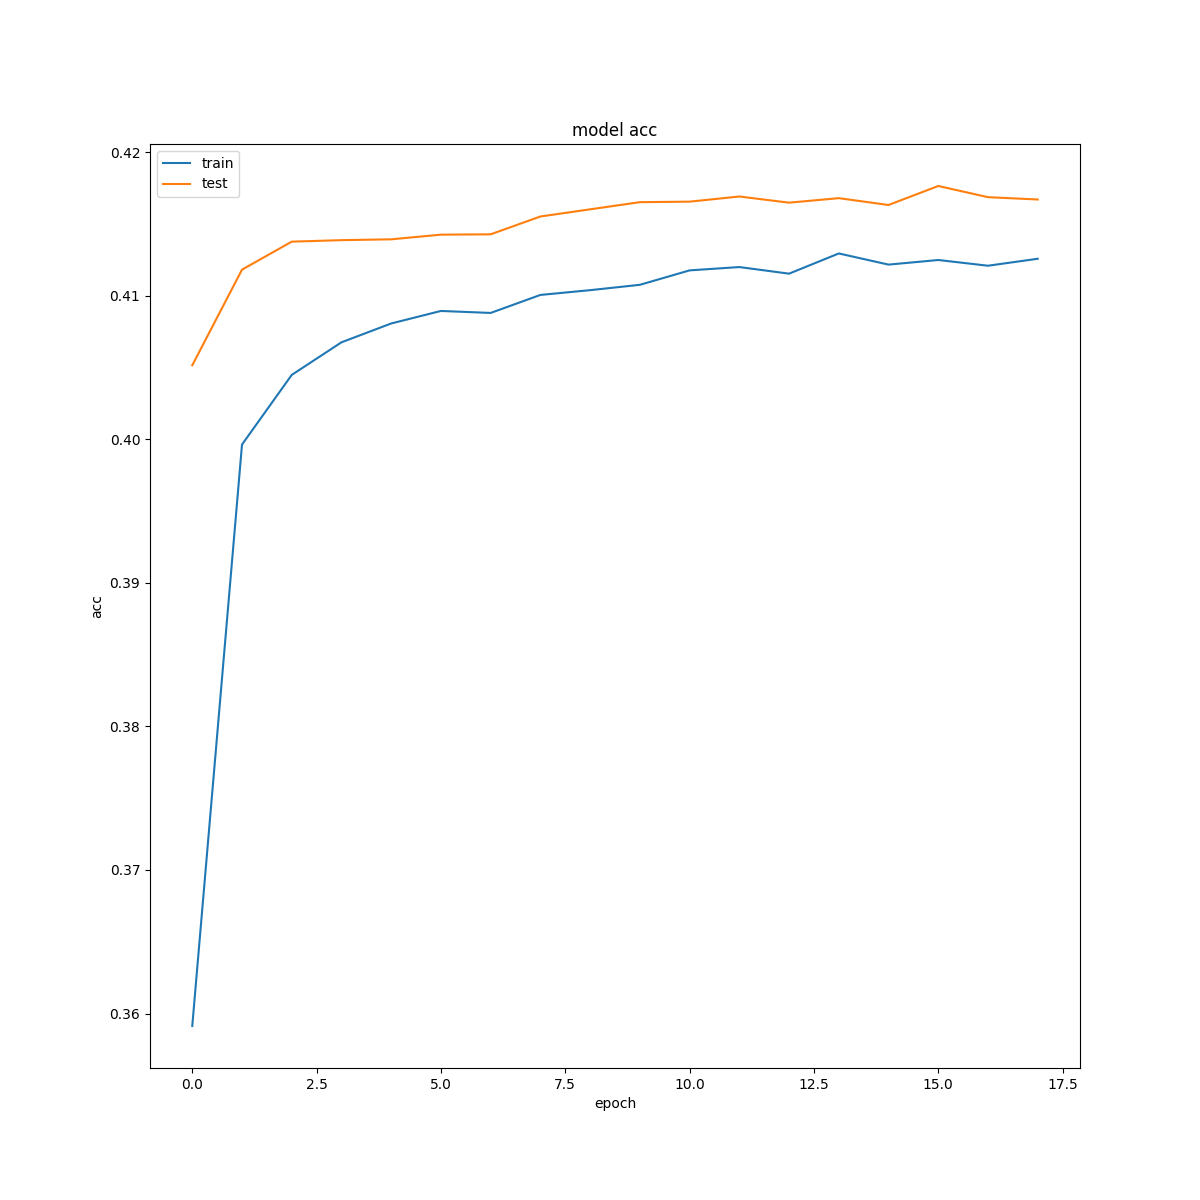
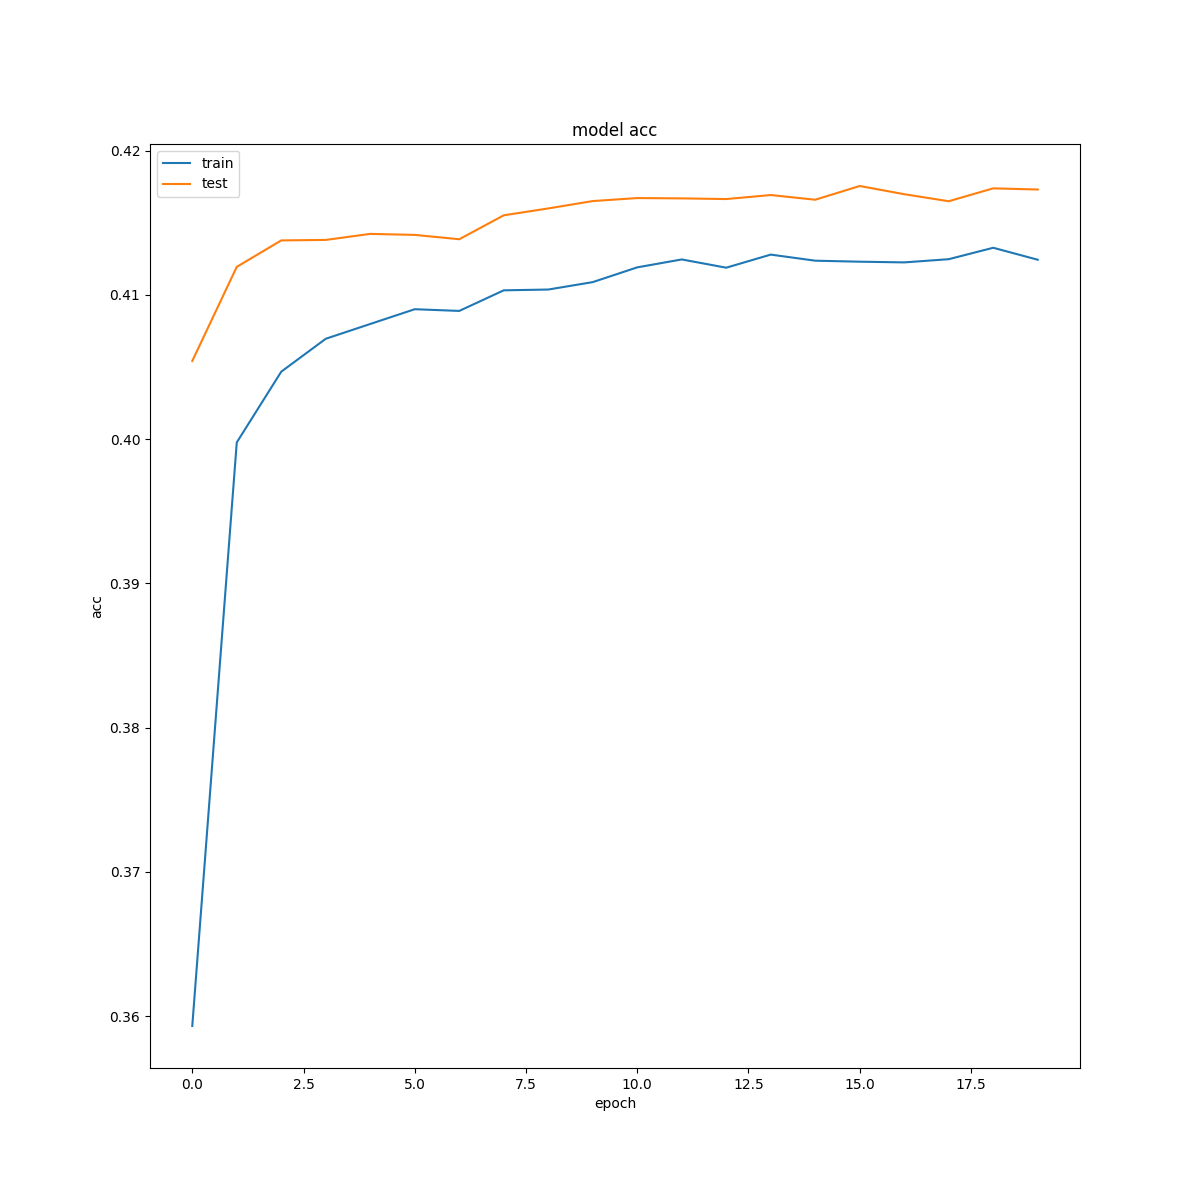
Garg com 31%

diff --git a/model/next_poi_category_prediction_models/gowalla/garg/garg.py b/model/next_poi_category_prediction_models/gowalla/garg/garg.py
@@ -65,8 +65,9 @@ class GARG:
         # ids_flatten = Flatten()(id_flatten)
 
         #y_cup = tf.matmul(id_flatten, l_p_flatten)
-        y_cup = Concatenate()([id_flatten, l_p_flatten])
-        y_cup = Dense(20)(y_cup)
+        y_cup = Concatenate()([id_embedding, l_p])
+        y_cup = Flatten()(y_cup)
+        #y_cup = Dense(20)(y_cup)
 
         srnn = GRU(units, return_sequences=True)(l_p)
         srnn = Dropout(0.5)(srnn)
@@ -89,19 +90,18 @@ class GARG:
         print("gc", x.shape)
         #y_up = tf.matmul(att, x)
         y_sup = Concatenate()([att, x])
-        y_sup = Dense(10)(y_sup)
         y_sup = Dropout(0.5)(y_sup)
+        y_sup = Dense(location_input_dim, activation='softmax')(y_sup)
+        y_cup = Dropout(0.5)(y_cup)
+        y_cup = Dense(location_input_dim, activation='softmax')(y_cup)
         print("y cup", y_cup.shape)
         print("y sup", y_sup.shape)
+        y_up = y_cup + tf.Variable(initial_value=1.)*y_sup
+        #y_srnn = Dense(location_input_dim, activation='softmax')(y_up)
 
-        y_up = Concatenate()([y_cup, y_sup])
-        print("y up", y_up.shape)
-        y_up = Dropout(0.5)(y_up)
-        y_srnn = Dense(location_input_dim, activation='softmax')(y_up)
+        print("saa: ", y_up.shape)
 
-        print("saa: ", y_srnn.shape)
-
-        model = Model(inputs=[location_category_input, temporal_input, country_input, distance_input, duration_input, week_day_input, user_id_input, adjancency_matrix, categories_distance_matrix, categories_temporal_matrix, categories_durations_matrix], outputs=[y_srnn], name="GARG_baseline")
+        model = Model(inputs=[location_category_input, temporal_input, country_input, distance_input, duration_input, week_day_input, user_id_input, adjancency_matrix, categories_distance_matrix, categories_temporal_matrix, categories_durations_matrix], outputs=[y_up], name="GARG_baseline")
 
         return model
 

diff --git a/configuration/next_poi_category_prediciton_configuration.py b/configuration/next_poi_category_prediciton_configuration.py
@@ -14,7 +14,7 @@ class NextPoiCategoryPredictionConfiguration:
         self.N_SPLITS = ("n_splits", 5)
 
         self.EPOCHS = ("epochs", {'users_steps': {'mfa': 200, 'serm': 200, 'map': 200, 'stf': 200, 'next': 200, 'garg': 200},
-                                'gowalla': {'mfa': 20, 'serm': 12, 'map': 12, 'stf': 12, 'next': 12, 'garg': 12}})
+                                'gowalla': {'mfa': 20, 'serm': 12, 'map': 12, 'stf': 12, 'next': 12, 'garg': 20}})
 
         self.N_REPLICATIONS = ("n_replications", 1)
 
@@ -22,7 +22,7 @@ class NextPoiCategoryPredictionConfiguration:
                                 'gowalla': {'mfa': 400, 'serm': 400, 'map': 400, 'stf': 400, 'next': 400, 'garg': 400}})
 
         self.OPTIMIZER = ("learning_rate", {'mfa': Adam(learning_rate=0.0007, beta_1=0.8, beta_2=0.9), 'serm': Adam(learning_rate=0.0001, beta_1=0.8, beta_2=0.9), 'map': Adam(learning_rate=0.0001, beta_1=0.8, beta_2=0.9), 'stf': Adam(learning_rate=0.0008, beta_1=0.8, beta_2=0.9),
-                                            'next': Adam(learning_rate=0.0001, beta_1=0.8, beta_2=0.9), 'garg': Adam(learning_rate=0.0008, beta_1=0.8, beta_2=0.9)})
+                                            'next': Adam(learning_rate=0.0001, beta_1=0.8, beta_2=0.9), 'garg': Adam(learning_rate=0.0007, beta_1=0.8, beta_2=0.9)})
 
         self.LOSS = ("learning_rate", {'mfa': CategoricalCrossentropy(), 'serm': CategoricalCrossentropy(), 'map': CategoricalCrossentropy(),
                                             'stf': CategoricalCrossentropy(),
